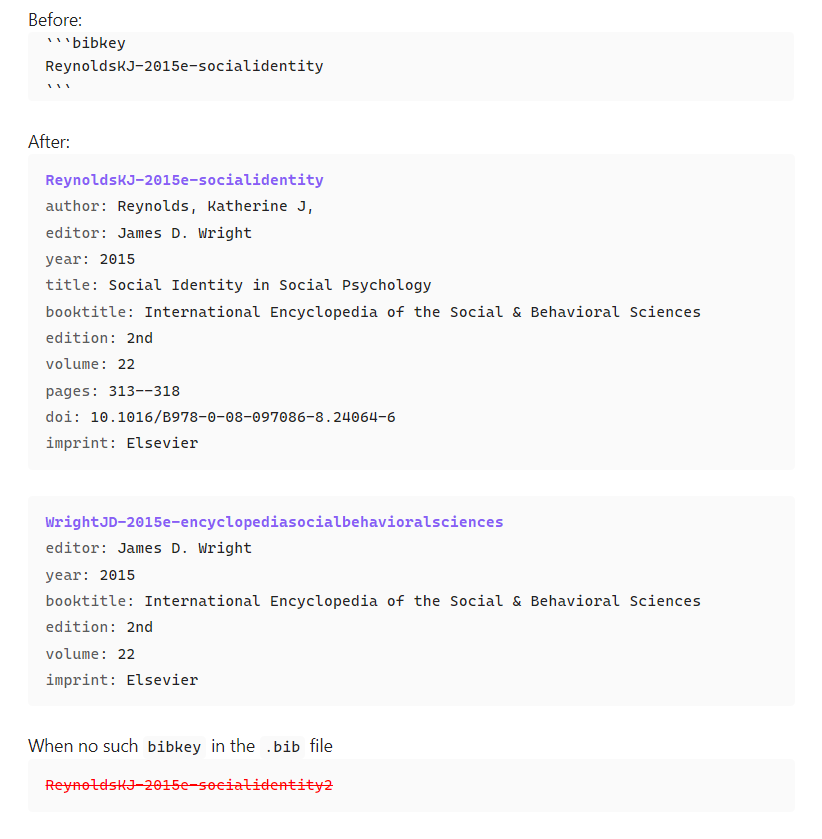
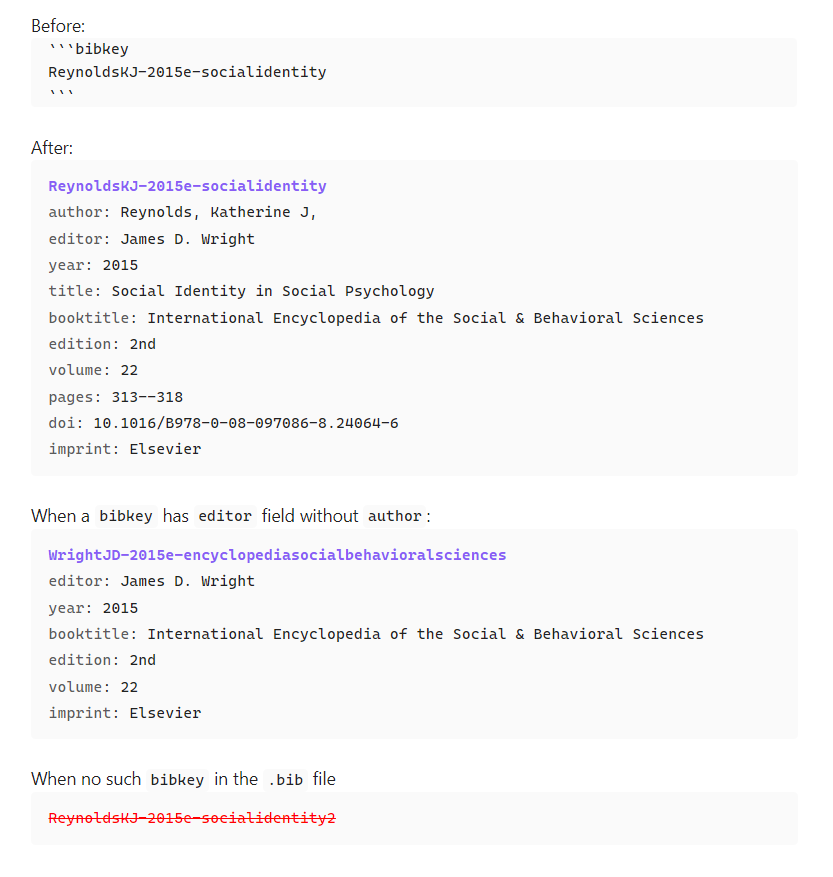
update README.md

diff --git a/README.md b/README.md
@@ -20,6 +20,19 @@ What's in the `.bib` file which is generated by `jabref`.
   creationdate     = {2024-07-22T13:12:48},
   modificationdate = {2024-07-22T15:11:41},
 }
+
+@MvReference{WrightJD-2015e-encyclopediasocialbehavioralsciences,
+  booktitle        = {International Encyclopedia of the Social & Behavioral Sciences},
+  citationkey      = {WrightJD-2015e-encyclopediasocialbehavioralsciences},
+  edition          = {2nd},
+  editor           = {James D. Wright},
+  volume           = {22},
+  year             = {2015},
+  creationdate     = {2025-06-23T18:01:38},
+  imprint          = {Elsevier},
+  modificationdate = {2025-06-23T18:07:04},
+}
+
 ```
 
 - If the plugin find the `bibkey` in the `.bib` file, the codeblock (first codeblock above) is replaced with the entry view of the `bibkey` (second codeblock).
